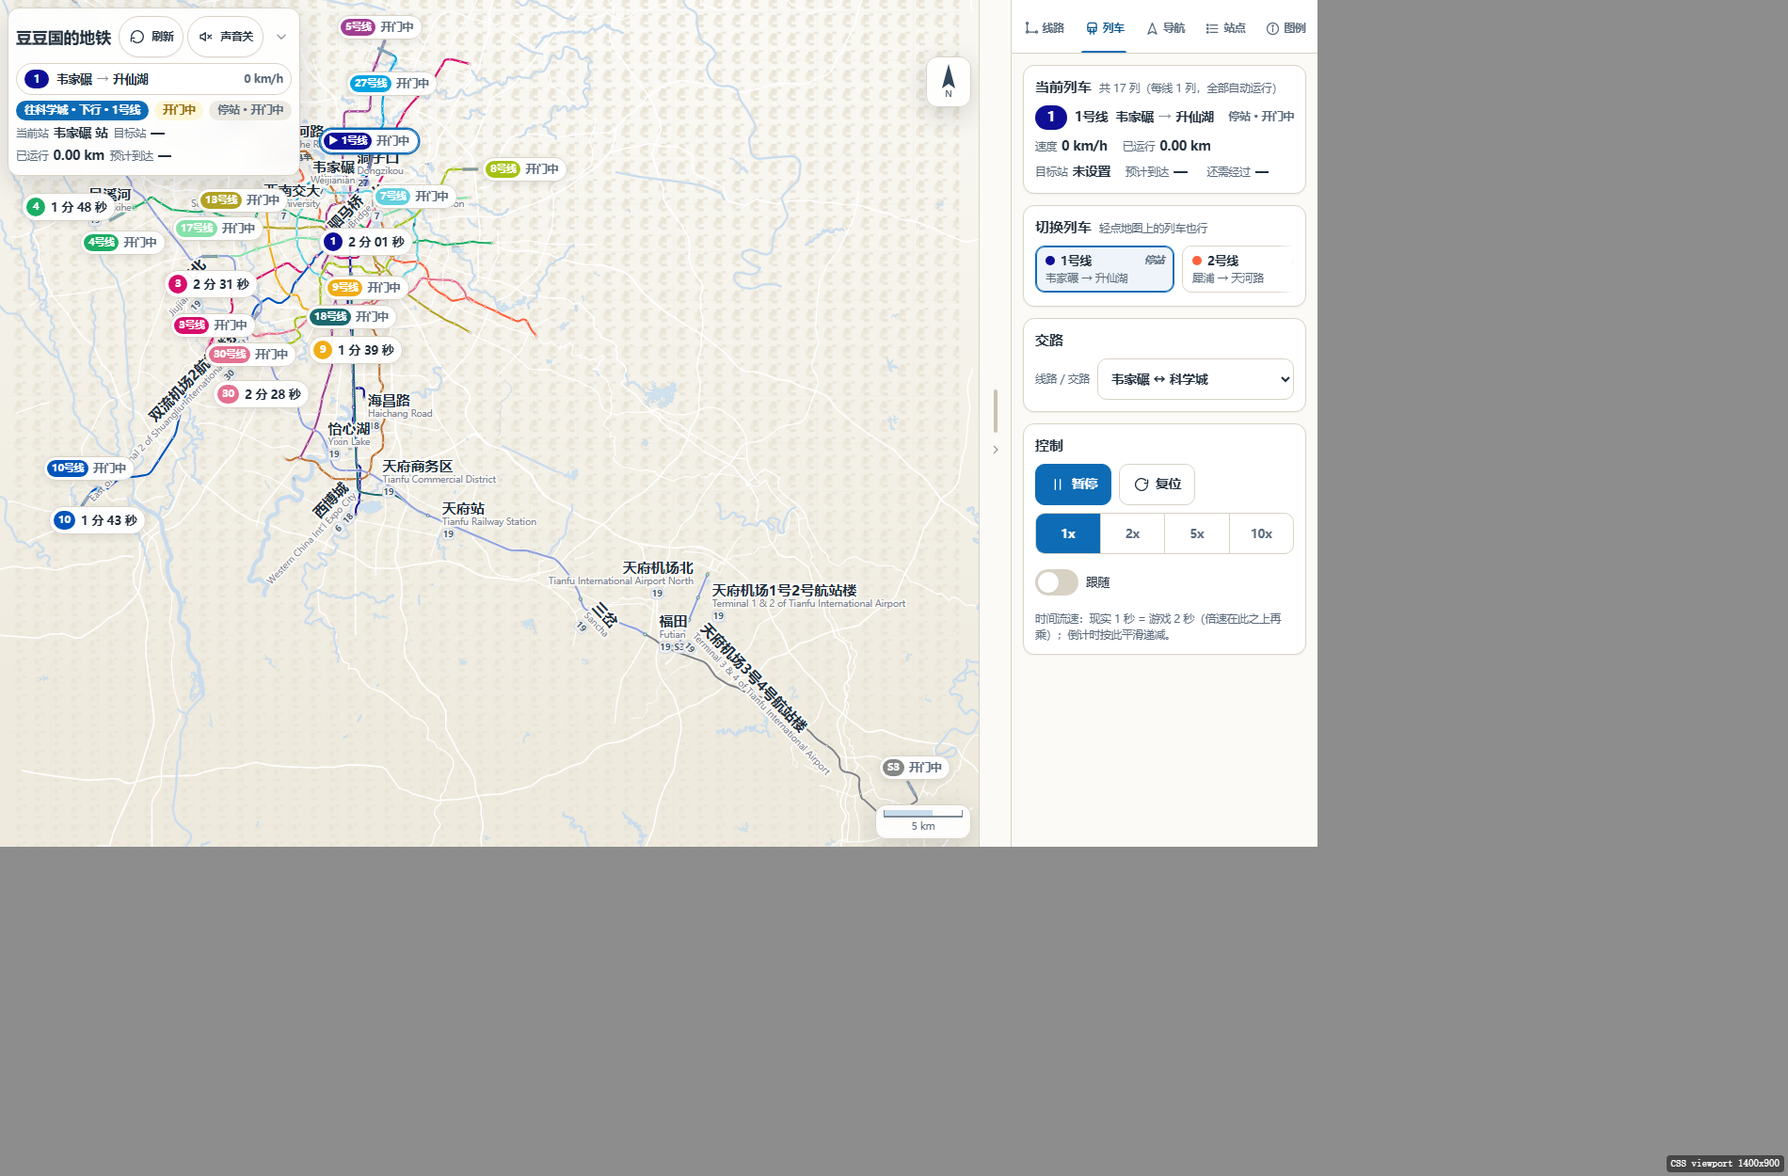
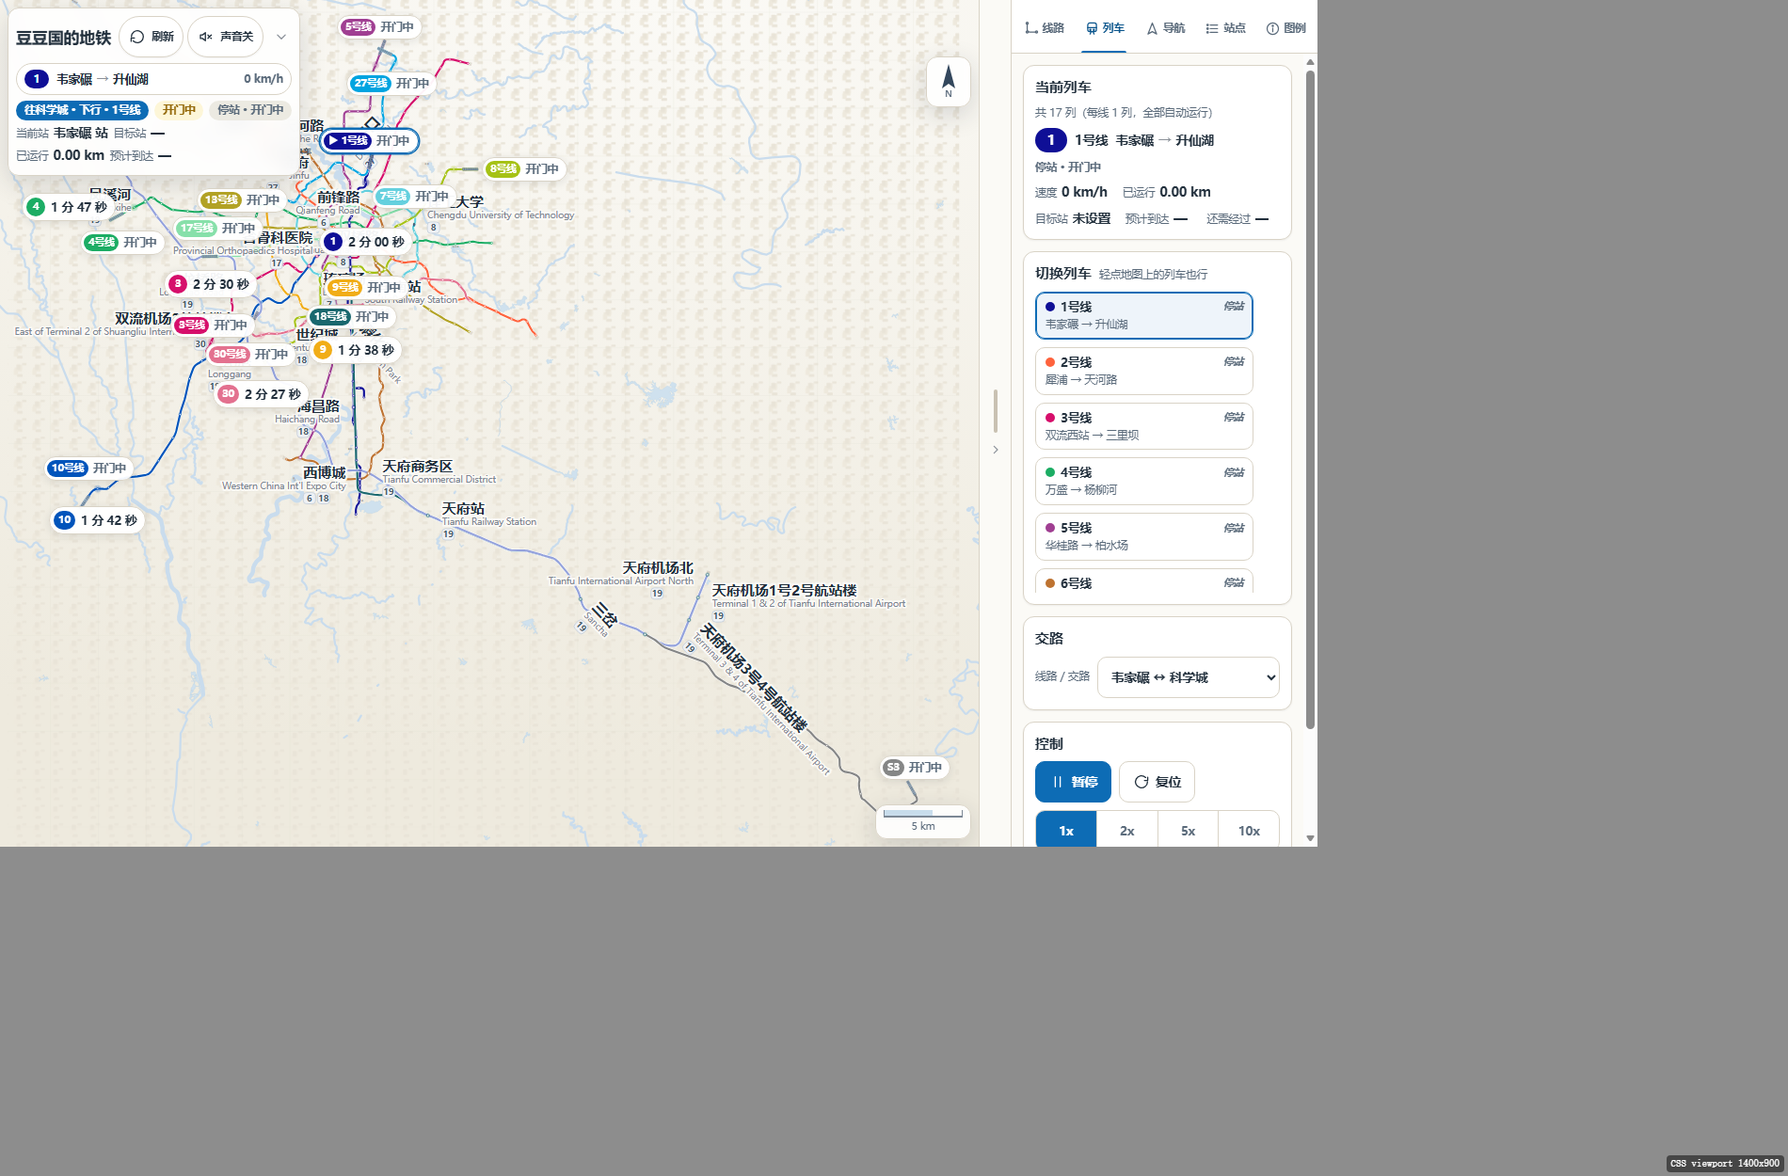
feat(ui): 手机标签 LOD 修正 + 道路阈值咬得住 + 大屏列表改造 + 双击站点聚焦
（用户反馈：iPad 上正常、手机上有问题）
- 手机站名标签：窄舞台字号 15px→11px（平板/桌面仍 15px，不破已认可的观感）；
  小屏预算 8→16~34；同优先级标签由“按纬度”改成**空间哈希**打散。
  实测 390x844：全网适配档可见站名 3→9 个（东西南北都有），k=0.3 时 18 个。
- 道路 LOD：隐藏阈值 0.10→0.26（0.10 比手机横屏 minZoom≈0.085 只低一点，要缩到底才生效 →
  用户说的“要缩到很高才隐藏”）；现在各布局在全网适配档就生效（实测 k=0.167/0.143 → off）。
- 线路列表：宽屏（iPad/PC）改成**三列网格**（17 条 6 行看完），贴边线号取紧凑名、站数换第二行；
  手机仍是横滑带。
- 切换列车：宽屏改成**竖向列表**（1 列、约 5~6 行可见，列表内可纵向滚，滑到头接着滚面板）；
  手机仍是横滑带。
- 双击站点行 → **地图视角聚焦到该站**（居中到可见区、字号至少 1.5x、自动关掉跟随列车）；
  实测双击「天府机场北」：k 0.152→1.5、站点落在可见区中心 (362,384)、悬浮窗同步打开。
- 自检 96 项三视口全绿；可见标签 24/12/11 个，最差遮挡 12.7%/19.4%/17.0%（阈值 25% 未改）。

diff --git a/app.js b/app.js
@@ -40,10 +40,12 @@
     dblMs: 320,            // 双击间隔
     fadeLabels: 0.60,      // 低于该缩放只显示重点站名
     /* 底图道路层的缩放 LOD：实测 6000 段路被描两遍占了一帧栅格时间的一半以上，
-       而缩到全网时线宽不足 0.8px（看不见却很贵），所以按缩放分三档：
-       k >= roadsFullZoom 完整（描边 + 主线）/ roadsHideZoom <= k < 道路完整阈值 只留主线 / k < roadsHideZoom 整层不画。 */
+       而缩到全网时线宽不足 1px（看不见却很贵）→ 分三档：
+       k >= roadsFullZoom 完整（描边 + 主线）/ roadsHideZoom <= k < roadsFullZoom 只留主线 / k < roadsHideZoom 整层不画。
+       阈值要“咬得住”：实测桌面/横屏手机的全网适配 zoom 约 0.10~0.28，
+       所以隐藏阈值取 0.26（以前 0.10 比手机横屏的 minZoom(≈0.085) 只低一点，要缩到底才生效）。 */
     roadsFullZoom: 0.55,
-    roadsHideZoom: 0.10
+    roadsHideZoom: 0.26
   };
 
   var VIEW_MARGIN = { x: 210, y: 205 };   // 适配视图时线路四周的留白（地图单位，给 HUD/图例留位置）
@@ -702,13 +704,19 @@
       if (st.tr && st.tr.length) p += 100;
       return p;
     }
-    var budget = (stage.w * stage.h) < 900000 ? clamp(Math.round((stage.w * stage.h) / 45000), 8, 22) : 999;
+    /* 同优先级时的取舍：按纬度排会把预算全花在最北边那一撮上（手机上缩到全网就只剩西北角几个站名），
+       改成空间哈希——同优先级的站按位置打散，斜地图上更容易形成“东南西北都有”的分布。 */
+    function spreadKey(L) {
+      var st = L.st;
+      return ((st.x * 73856093) ^ (st.y * 19349663)) % 100003;
+    }
+    var budget = (stage.w * stage.h) < 900000 ? clamp(Math.round((stage.w * stage.h) / 16000), 16, 34) : 999;
     if (budget < 999) {
       vis = vis.slice().sort(function (a, b) {
         var pa = prio(a), pb = prio(b);
         if (pa !== pb) return pb - pa;
         if (a.key !== b.key) return a.key ? -1 : 1;
-        return a.st.y - b.st.y;
+        return spreadKey(a) - spreadKey(b);
       }).slice(0, budget);
       var inBudget = {};
       vis.forEach(function (L) { inBudget[L.st.id] = 1; });
@@ -722,7 +730,7 @@
         if (pa !== pb) return pb - pa;
       }
       if (a.key !== b.key) return a.key ? -1 : 1;
-      return a.st.y - b.st.y;
+      return spreadKey(a) - spreadKey(b);
     });
     order.forEach(function (L) {
       var tries = [
@@ -824,10 +832,12 @@
   }
 
   function updateLabelScale() {
-    /* 站名标签屏幕恒定：字号 15 地图单位 × labelScale × view.k = 15px 屏幕。
-       以前把 labelScale 封顶在 2.0，低缩放下标签会缩成 3px 的噪声（看得见但读不着）；
-       现在不封顶——标签一多，就交给小视口预算 + 防重叠去淘汰，数量可控、字号不糊。 */
-    labelScale = Math.max(0.34, 1 / view.k);
+    /* 站名标签“屏幕恒定”，但屏幕大小分两档：
+       宽舞台（平板/桌面）15px——这是用户认可的观感；窄舞台（手机）11px——
+       同样是 15px 的话，390px 宽的地图上根本塞不下几个站名（用户反馈“缩小了也不显示”）。
+       不再对 labelScale 设下限：下限会让高缩放下字号偷偷变大（失恒）。 */
+    var screenPx = stage.w < 700 ? 11 : 15;
+    labelScale = screenPx / (15 * view.k);
     var all = view.k >= CFG.fadeLabels;
     labelEls.forEach(function (L) {
       var vis = all || L.key;
@@ -1216,8 +1226,11 @@
       b.className = 'lg-chip';
       b.setAttribute('data-line', l.key);
       b.setAttribute('aria-pressed', 'false');
-      b.innerHTML = '<i style="background:' + l.color + '"></i>' + l.short + '<em>' + n + '</em>';
-      b.title = l.name + '（点一下只看该线，可多选）';
+      /* 宽屏下是三列网格（格子只有 ~65px）：名字取紧凑写法（S3 这种长名只写线号，全名在 title 里），
+         站数换到第二行。 */
+      var chipTxt = /^[0-9]+号线$/.test(l.short) ? l.short : l.key;
+      b.innerHTML = '<i style="background:' + l.color + '"></i><b class="lg-name">' + chipTxt + '</b><em>' + n + ' 站</em>';
+      b.title = l.name + '（' + n + ' 站，点一下只看该线，可多选）';
       b.addEventListener('click', function (e) {
         e.stopPropagation();
         ui.showLines = ui.showLines || {};
@@ -2132,16 +2145,19 @@
   /* （旧）面板折叠按钮的处理器已删除：宽屏改用 #panelRail 的滑动/点击，手机用底部把手。 */
   function bindPanelToggleRemoved() { return null; }
 
-  /* 横向滑动条的“还能滑”渐隐：按真实滚动位置切 class（at-scrolled = 已经滑离起点，at-end = 到底了） */
+  /* 滑动条的“还能滑”渐隐：按真实滚动位置切 class。
+     横滑带看 scrollLeft，竖向列表（宽屏的“切换列车”）看 scrollTop——同一套类名两边通用。 */
   function updateReelFades() {
     ['trainChips', 'lgLines'].forEach(function (id) {
       var el = $(id);
       if (!el) return;
-      var max = el.scrollWidth - el.clientWidth;
+      var vertical = getComputedStyle(el).flexDirection === 'column';
+      var pos = vertical ? el.scrollTop : el.scrollLeft;
+      var max = vertical ? (el.scrollHeight - el.clientHeight) : (el.scrollWidth - el.clientWidth);
       var noNeed = max <= 1;
       el.classList.toggle('at-both', noNeed);
-      el.classList.toggle('at-scrolled', !noNeed && el.scrollLeft > 1);
-      el.classList.toggle('at-end', !noNeed && el.scrollLeft >= max - 1);
+      el.classList.toggle('at-scrolled', !noNeed && pos > 1);
+      el.classList.toggle('at-end', !noNeed && pos >= max - 1);
     });
   }
 
@@ -2275,6 +2291,23 @@
   /* 站点列表：按线路/交路分组的折叠块 + 搜索（366 站，搜索是必需的） */
   var groupEls = [];
   var lastScrolledKey = null;
+  /* 双击站点行 → 把地图视角聚焦过去（居中到可见区，并放大到看得清的档位）
+     跟随列车开着的时候必须先关掉，否则下一帧就被跟随拉回去了。 */
+  function focusStation(id) {
+    var st = M.byId[id];
+    if (!st) return;
+    if (ui.follow) setFollow(false);
+    view.fitted = false;
+    view.k = clamp(Math.max(view.k, 1.5), minZoom(), 16);
+    var vr = visibleRect();
+    view.tx = vr.w / 2 - st.x * view.k;
+    view.ty = vr.h / 2 - st.y * view.k;
+    clampView(); applyView(); updateLabelScale(); updateScaleBar();
+    layoutLabels(); positionBubbles();
+    openPopup(id, { x: st.x * view.k + view.tx, y: st.y * view.k + view.ty });
+    toast('已聚焦：' + st.zh);
+  }
+
   function stationRow(id, noText) {
     var st = M.byId[id];
     if (!st) return null;
@@ -2302,6 +2335,11 @@
     }
     if (st.status) { var t3 = document.createElement('span'); t3.className = 'tag'; t3.textContent = st.status; b.appendChild(t3); }
     b.addEventListener('click', function () { setTarget(id); updateStationList(); });
+    b.addEventListener('dblclick', function (e) {
+      e.preventDefault();
+      focusStation(id);                     // 双击 = 视角聚焦到该站（单击仍是“派车到该站”）
+    });
+    b.title = '单击：列车运行到该站 · 双击：地图聚焦到该站';
     return b;
   }
 
@@ -4391,31 +4429,46 @@
                     Math.abs(wBack - wBefore) < 1;
                 })(), chk.__fold2);
 
-                chk('两条横向色带都具备横向滚动条件（内容溢出 + overflow-x 允许 + touch-action 未被祖先锁成 pan-y）', (function () {
+                chk('两条列表都具备滚动条件：宽屏是 3 列网格 / 竖向列表，手机上都是横滑带', (function () {
                   var out = [], ok = true;
-                  var panes = [['列车色带', 'trainChips', 'train'], ['线路色带', 'lgLines', 'lines']];
-                  panes.forEach(function (p) {
-                    setTab(p[2]);                                   // 各自所在的 tab 默认是隐藏的，先打开
-                    var el = $(p[1]);
-                    if (!el) { ok = false; out.push(p[0] + '缺失'); return; }
-                    var overflowX = getComputedStyle(el).overflowX;
-                    var overflow = el.scrollWidth > el.clientWidth + 1;
-                    var scrollable = overflowX === 'auto' || overflowX === 'scroll';
-                    /* touch-action 沿祖先链取交集：祖先写 pan-y 会把子元素横向平移相交成 none
-                       （那就是用户说的“滑不动”）。 */
-                    var blocked = null;
-                    for (var q = el; q && q !== document.body; q = q.parentElement) {
-                      var ta = getComputedStyle(q).touchAction;
-                      if (ta === 'none' || ta === 'pan-y' || ta === 'pan-up' || ta === 'pan-down') {
-                        blocked = (q.id || q.className || q.tagName) + ':' + ta;
-                        break;
-                      }
-                    }
-                    if (!overflow || !scrollable || blocked) ok = false;
-                    out.push(p[0] + ' ' + el.clientWidth + '<' + el.scrollWidth + ' overflow=' + overflowX +
-                      ' 锁=' + (blocked || '无'));
-                  });
+                  var wide = !sheetMode();
+                  setTab('lines');
+                  var lg = $('lgLines');
+                  var lgStyle = lg ? getComputedStyle(lg) : null;
+                  var lgCols = lgStyle ? lgStyle.gridTemplateColumns.split(' ').filter(function (x) { return x.trim(); }).length : 0;
+                  if (!lg) { ok = false; out.push('线路列表缺失'); }
+                  else if (wide) {
+                    /* 宽屏：三列网格，不应再有横向溢出 */
+                    var gridOk = lgStyle.display === 'grid' && lgCols === 3;
+                    var noHOver = lg.scrollWidth <= lg.clientWidth + 2;
+                    if (!gridOk || !noHOver) ok = false;
+                    out.push('线路(宽屏) 网格=' + lgStyle.display + ' 列数=' + lgCols +
+                      ' 宽 ' + lg.clientWidth + '/' + lg.scrollWidth + ' 无横向溢出=' + noHOver);
+                  } else {
+                    if (!(lg.scrollWidth > lg.clientWidth + 1) || !(lgStyle.overflowX === 'auto' || lgStyle.overflowX === 'scroll')) ok = false;
+                    out.push('线路(手机) 横滑 215<' + lg.scrollWidth + ' overflow=' + lgStyle.overflowX);
+                  }
                   setTab('train');
+                  var tc = $('trainChips');
+                  var tStyle = tc ? getComputedStyle(tc) : null;
+                  if (!tc) { ok = false; out.push('列车列表缺失'); }
+                  else if (wide) {
+                    var vert = tStyle.flexDirection === 'column';
+                    var vOver = tc.scrollHeight > tc.clientHeight + 1;
+                    var rows = Math.round(tc.clientHeight / 56);
+                    if (!vert || !(tStyle.overflowY === 'auto' || tStyle.overflowY === 'scroll') || !vOver || rows < 3 || rows > 7) ok = false;
+                    out.push('切换列车(宽屏) 方向=' + tStyle.flexDirection + ' 可见≈' + rows + ' 行 可纵向滚=' + vOver);
+                  } else {
+                    if (!(tc.scrollWidth > tc.clientWidth + 1)) ok = false;
+                    out.push('切换列车(手机) 横滑 ' + tc.clientWidth + '<' + tc.scrollWidth);
+                  }
+                  /* touch-action 沿祖先链取交集：祖先写 pan-y 会把子元素横向平移相交成 none */
+                  var blocked = null;
+                  for (var q = tc; q && q !== document.body; q = q.parentElement) {
+                    var ta = getComputedStyle(q).touchAction;
+                    if (ta === 'none' || (ta === 'pan-y' && !wide)) { blocked = (q.id || q.className) + ':' + ta; break; }
+                  }
+                  if (blocked) { ok = false; out.push('touch-action 被锁=' + blocked); }
                   chk.__reel = out.join(' · ');
                   return ok;
                 })(), chk.__reel);
@@ -4528,6 +4581,9 @@
     stepTrain: stepTrain, setTarget: setTarget, reset: resetState,
     pointAt: pointAt, kmToMap: kmToMap, recomputeEta: recomputeEta,
     hitStation: hitStation, zoomAt: zoomAt, fitView: fitView, view: view,
+    focusStation: focusStation, openPopup: openPopup, closePopup: closePopup,
+    clampView: clampView, applyView: applyView, updateScaleBar: updateScaleBar,
+    updateLabelScale: updateLabelScale, layoutLabels: layoutLabels, labelScaleOf: function () { return labelScale; },
     applySnap: applySnap, setTab: setTab, renderStationList: renderStationList, sheet: sheet,
     panel: panel, applyPanel: applyPanel, setPanelCollapsed: function (v) { panel.collapsed = !!v; applyPanel(); if (view.fitted) fitView(); layoutLabels(); positionBubbles(); },
     stationKm: stationKm, stationMapS: stationMapS, panBox: panBox, contentBox: contentBox, stage: stage,

diff --git a/style.css b/style.css
@@ -426,6 +426,36 @@ body {
 }
 .lg-chip i { width: 14px; height: 14px; border-radius: 4px; flex: 0 0 auto; }
 .lg-chip em { font-style: normal; font-size: var(--t-micro); color: var(--ink-soft); font-variant-numeric: tabular-nums; }
+.lg-name { font-weight: 700; overflow: hidden; text-overflow: ellipsis; min-width: 0; }
+
+/* 宽屏（iPad / PC）下线路表改用**三列网格**竖向铺开，把横向空间用完（17 条线路 6 行看完）；
+   手机/竖屏抽屉里仍是一条横滑带（窄屏上网格会挤成一团）。 */
+@media (min-width: 760px) and (min-aspect-ratio: 1/1) {
+  .lg-lines {
+    display: grid;
+    grid-template-columns: repeat(3, minmax(0, 1fr));
+    gap: var(--s1) var(--s2);
+    overflow: visible;
+    scroll-snap-type: none;
+    -webkit-mask-image: none;
+    mask-image: none;
+  }
+  .lg-chip { width: 100%; justify-content: flex-start; border-radius: var(--r-sm); flex-wrap: wrap; row-gap: 0; min-width: 0; overflow: hidden; padding: 6px 9px; }
+  /* 站数换到第二行：三列格子只有 ~65px，一行塞不下「dot + 9号线 + 56 站」 */
+  .lg-chip em { flex: 0 0 100%; margin-left: 0; }
+
+  /* 切换列车：竖向列表（1 列、约 5 行可见），比横滑带好扫，也把竖向空间用起来 */
+  .tchips {
+    flex-direction: column;
+    overflow-x: hidden;
+    overflow-y: auto;
+    max-height: 320px;              /* ≈ 5 行（卡片 ~56 + 间距 8） */
+    scroll-snap-type: y proximity;
+    -webkit-mask-image: linear-gradient(to bottom, #000 0, #000 calc(100% - 18px), transparent 100%);
+    mask-image: linear-gradient(to bottom, #000 0, #000 calc(100% - 18px), transparent 100%);
+  }
+  .tchip { width: 100%; max-width: none; }
+}
 .lg-chip.on { border-color: currentColor; background: var(--line-tint); box-shadow: inset 0 0 0 1px currentColor; }
 .lg-chip.off { opacity: .34; }
 
@@ -451,7 +481,7 @@ body {
 .reel.at-both, .tchips.at-both, .lg-lines.at-both { --fade-l: 0px; --fade-r: 0px; }   /* 不需要滑：两头都不淡 */
 
 /* 列车卡（17 列车切换入口）：两行——上排「线路 + 状态」，下排「当前站 → 下一站」。
-   单行卡片在手机上会把站名截成省略号（用户反馈“显示不完”），两行后内容完整且仍可横向滑。 */
+   手机/抽屉里是横滑带；宽屏（iPad/PC）下换成**竖向列表**（1 列，约 5 行可见，其余在列表内滚）。 */
 .tchip {
   display: flex; flex-direction: column; align-items: stretch; gap: 2px;
   flex: 0 0 auto;

diff --git a/README.md b/README.md
@@ -160,8 +160,8 @@
 
 | Tab | 内容 |
 |---|---|
-| **线路** | 17 个线路色块（点一下只看该线，可多选）+ 底图说明与统计 |
-| **列车** | 当前列车卡（速度/里程/目标站/ETA）+ **17 列车的横向色带**（点一下就切控制对象）+ 交路选择 + 控制（暂停/复位/1x2x5x10x/跟随/检查更新） |
+| **线路** | 17 个线路色块（点一下只看该线，可多选）+ 全网统计。**宽屏（iPad/PC）下是三列网格**竖向铺开，手机上是横滑带 |
+| **列车** | 当前列车卡（速度/里程/目标站/ETA）+ **切换列车列表**（宽屏是竖向 1 列、约 5 行可见，手机上是横滑带）+ 交路选择 + 控制 |
 | **导航** | 目标站 / 预计到达 / 还需经过 + 清除目标 |
 | **站点** | **搜索框（中英文都行）** + 按线路折叠的站表（只展开当前线路） |
 | **图例** | 站点符号说明（换乘 / 普通 / 端点 / 在建·暂停）+ **版本与更新**（版本戳 + 检查更新）+ 数据来源与 ODbL 版权 |
@@ -173,9 +173,14 @@
   收起 = 把手 + tab + 胶囊（111px，地图占大头）/ 半开 = 52dvh（默认，正好能装下整条线网）/ 全开 = 86dvh；
   拖动把手吸附到最近档位，点一下循环三档。
 * **唯一滚动区**：抽屉/面板主体（`.panel-body`）——页面与地图**从来不滚**，
-  所以不会出现“iPhone 上地址栏一缩、地图就跑位”那类问题。
-* **小屏降噪**：舞台宽度 < 480px 时，列车贴片与到站气泡只保留当前控制列车那一个（强调圈照画）；
-  站名标签字号屏幕恒定，数量由小视口预算 + 防重叠决定（遮挡阈值仍是 25%）。
+  所以不会出现“iPhone 上地址栏一缩、地图就跑位”那类问题。宽屏下的「切换列车」是块内嵌的竖向列表
+  （最多 5 行高，其余在列表内滑，滑到头会接着滚面板）。
+* **小屏降噪**：舞台宽度 < 480px 时，列车贴片与到站气泡只保留当前控制列车那一个（强调圈照画）。
+* **站名标签按屏幕分档**：宽舞台（平板/桌面）15px、窄舞台（手机）11px——都是屏幕恒定字号，
+  手机用小字号才能塞下足够多的站名（用户反馈“缩小了也不显示”）；同优先级的标签用**空间哈希**打散，
+  避免预算全部花在最北边那一撮上、缩小时只剩西北角几个站名。
+* **双击站点行 = 视角聚焦**：单击仍是“列车运行到该站”，**双击**会把地图居中到该站并放大到看得清的档位
+  （跟随列车开着时会先关掉，否则下一帧就被拉回去）。
 * **图标全部是内联 SVG**（无图标字体/CDN）；每个可点元素都有 hover / active / focus-visible 三态。
 
 ### 点击优先级与交互规则
@@ -466,6 +471,8 @@ DOM 节点数因此与线路数无关。
 | `37-ui-phone-stations-390x844.png` | 手机站点 tab（全开）：搜索框 + 按线折叠的站表（48px 行高、当前站高亮） |
 | `38-ui-tablet-portrait-820x1180.png` | iPad 竖屏：底部抽屉 + 整条线网 |
 | `39-ui-phone-landscape-844x390.png` | 手机横屏：矮窗口改用右侧 dock，地图保住整屏高 |
+| `43-ui-ipad-landscape-lines-1180x820.png` | iPad 横屏「线路」tab：17 条线路按**三列网格**铺开 |
+| `44-ui-ipad-landscape-trains-1180x820.png` | iPad 横屏「列车」tab：切换列车是**竖向列表**（约 5–6 行可见，其余列表内滑） |
 | `40-ui-tab-about-1400x900.png` | 新的「图例」tab：站点符号 + 版本与更新（版本戳 + 检查更新）+ 数据来源与版权 |
 | `41-ui-tab-about-phone-390x844.png` | 手机上同一 tab（抽屉全开） |
 | `42-ui-panel-collapsed-1400x900.png` | 用左缘把手收起面板后：地图真的变宽，把手留在屏幕右缘 |
